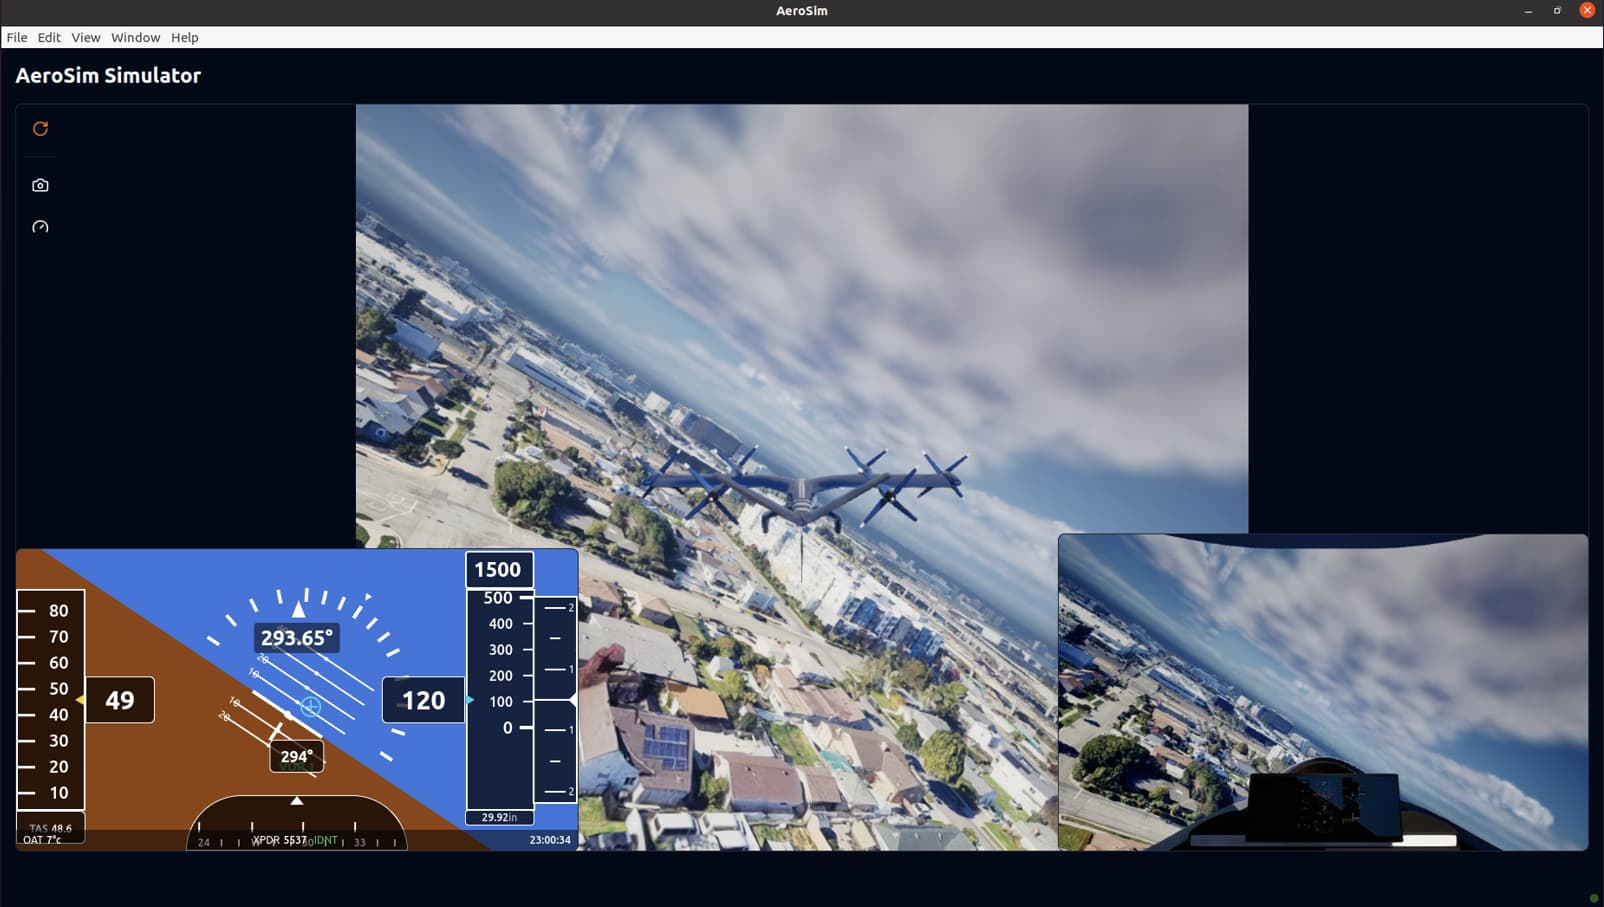
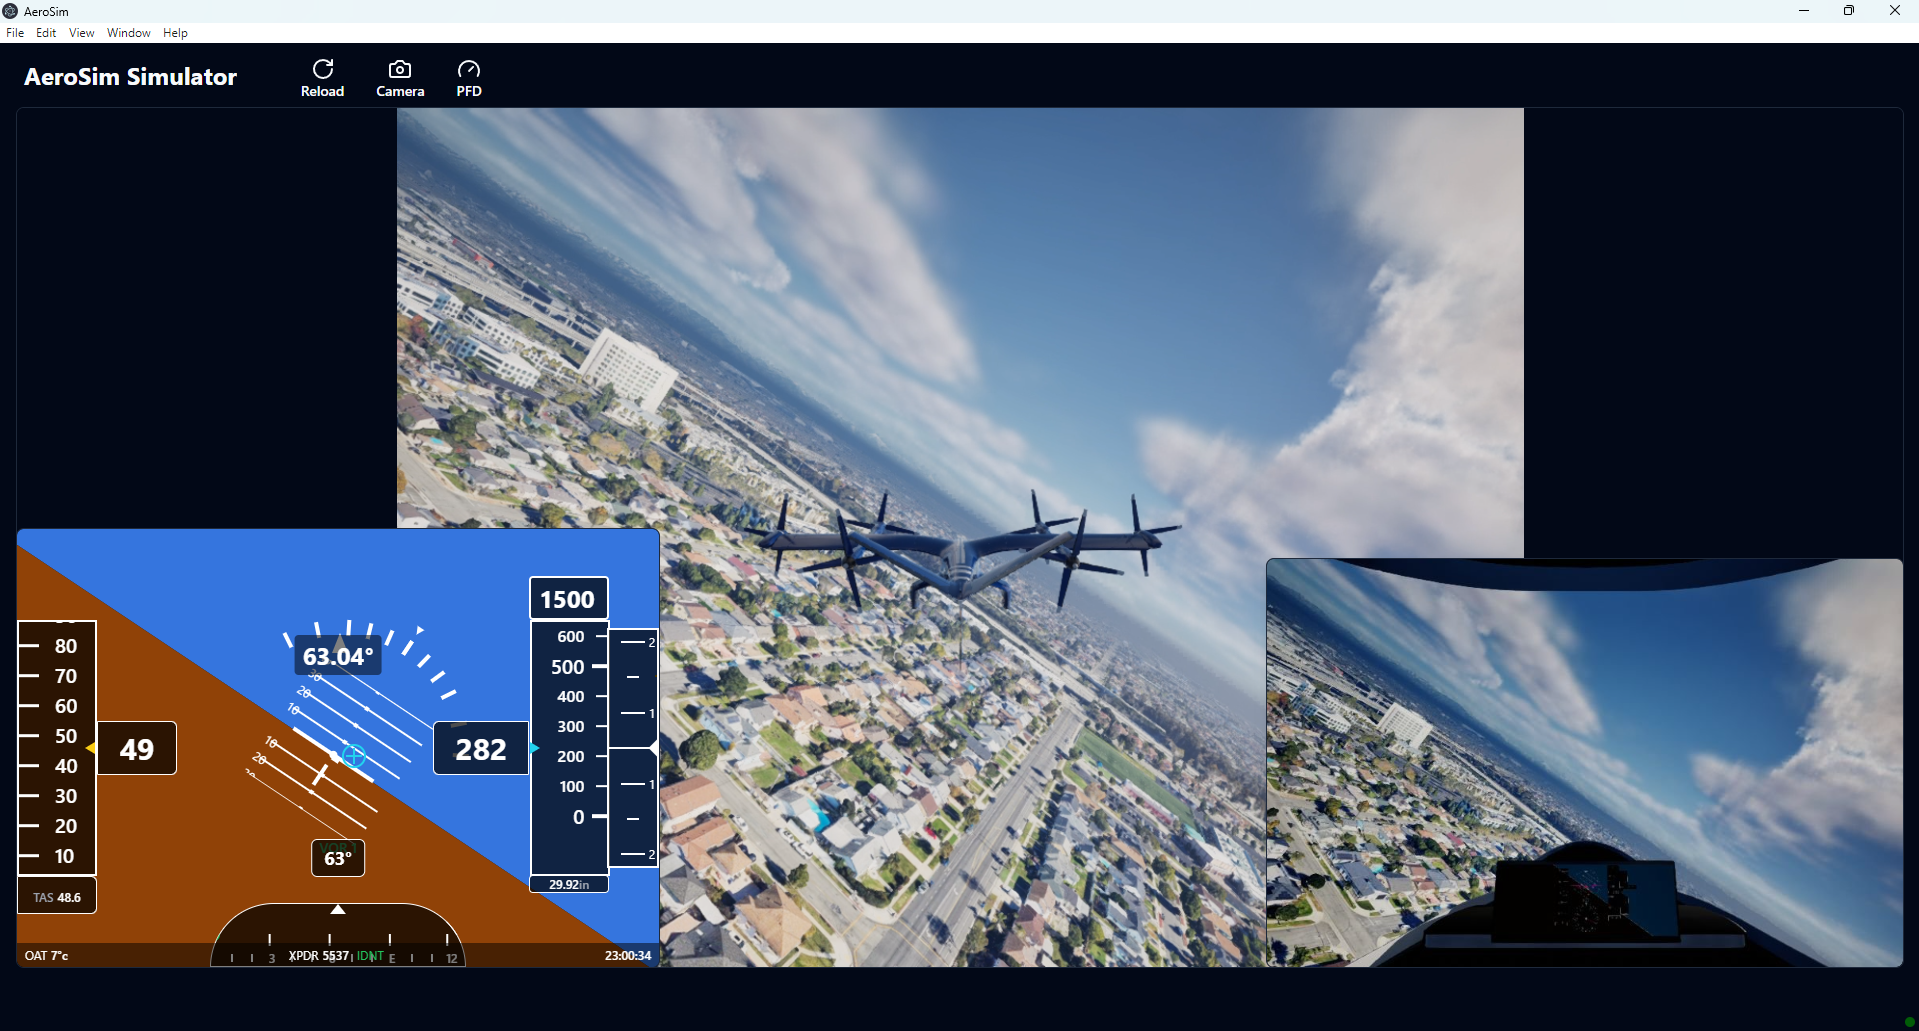
Move App Controls to the top horizontal bar (#6)
* Move NavBar to the top, remove separator as is no longer needed

* Add titles in buttons since there are more space in the top, refactor buttons in NavBar, prettier formatting

* Update readme images with new layout

diff --git a/src/components/ui/button.tsx b/src/components/ui/button.tsx
@@ -1,33 +1,33 @@
-import * as React from 'react';
-import { Slot } from '@radix-ui/react-slot';
-import { cva, type VariantProps } from 'class-variance-authority';
-import { cn } from '@/lib/utils';
+import * as React from "react";
+import { Slot } from "@radix-ui/react-slot";
+import { cva, type VariantProps } from "class-variance-authority";
+import { cn } from "@/lib/utils";
 
 const buttonVariants = cva(
-  'inline-flex items-center justify-center rounded-md text-sm font-medium ring-offset-background transition-colors focus-visible:outline-none focus-visible:ring-2 focus-visible:ring-ring focus-visible:ring-offset-2 disabled:pointer-events-none disabled:opacity-50',
+  "inline-flex items-center justify-center rounded-md text-sm font-medium ring-offset-background transition-colors focus-visible:outline-none focus-visible:ring-2 focus-visible:ring-ring focus-visible:ring-offset-2 disabled:pointer-events-none disabled:opacity-50",
   {
     variants: {
       variant: {
-        default: 'bg-primary text-primary-foreground hover:bg-primary/90',
+        default: "bg-primary text-primary-foreground hover:bg-primary/90",
         destructive:
-          'bg-destructive text-destructive-foreground hover:bg-destructive/90',
+          "bg-destructive text-destructive-foreground hover:bg-destructive/90",
         outline:
-          'border border-input bg-background hover:bg-accent hover:text-accent-foreground',
+          "border border-input bg-background hover:bg-accent hover:text-accent-foreground",
         secondary:
-          'bg-secondary text-secondary-foreground hover:bg-secondary/80',
-        ghost: 'hover:bg-accent hover:text-accent-foreground',
-        link: 'text-primary underline-offset-4 hover:underline',
+          "bg-secondary text-secondary-foreground hover:bg-secondary/80",
+        ghost: "hover:bg-accent hover:text-accent-foreground",
+        link: "text-primary underline-offset-4 hover:underline",
       },
       size: {
-        default: 'h-10 px-4 py-2',
-        sm: 'h-9 rounded-md px-3',
-        lg: 'h-11 rounded-md px-8',
-        icon: 'h-10 w-10',
+        default: "h-10 px-4 py-2",
+        sm: "h-9 rounded-md px-3",
+        lg: "h-11 rounded-md px-8",
+        icon: "h-10 w-10",
       },
     },
     defaultVariants: {
-      variant: 'default',
-      size: 'default',
+      variant: "default",
+      size: "default",
     },
   }
 );
@@ -40,7 +40,7 @@ export interface ButtonProps
 
 const Button = React.forwardRef<HTMLButtonElement, ButtonProps>(
   ({ className, variant, size, asChild = false, ...props }, ref) => {
-    const Comp = asChild ? Slot : 'button';
+    const Comp = asChild ? Slot : "button";
     return (
       <Comp
         className={cn(buttonVariants({ variant, size, className }))}
@@ -50,6 +50,6 @@ const Button = React.forwardRef<HTMLButtonElement, ButtonProps>(
     );
   }
 );
-Button.displayName = 'Button';
+Button.displayName = "Button";
 
 export { Button, buttonVariants };

diff --git a/src/components/nav-bar.tsx b/src/components/nav-bar.tsx
@@ -1,7 +1,6 @@
 import React from "react";
 import { Button } from "@/components/ui/button";
 import { Camera, Gauge, RotateCw } from "lucide-react";
-import { Separator } from "@/components/ui/separator";
 
 interface NavBarProps {
   handleReload: () => void;
@@ -9,42 +8,56 @@ interface NavBarProps {
   handlePFDButton: () => void;
 }
 
+interface ButtonWrapperProps {
+  handleButton: () => void;
+  hoverText: string;
+  text: string;
+  Icon: any;
+}
+
+const ButtonWrapper: React.FC<ButtonWrapperProps> = ({
+  handleButton,
+  hoverText,
+  text,
+  Icon,
+}: ButtonWrapperProps) => {
+  return (
+    <Button variant="ghost" onClick={handleButton} title={hoverText}>
+      <div className="flex flex-col justify-center items-center">
+        <Icon />
+        <h2>{text}</h2>
+      </div>
+    </Button>
+  );
+};
+
 export const NavBar: React.FC<NavBarProps> = ({
   handleReload,
   handleCameraButton,
   handlePFDButton,
 }) => {
   return (
-    <div className="flex flex-col gap-2 p-2">
-      <Button
-        variant="ghost"
-        size="icon"
-        onClick={handleReload}
-        title="Reload Page"
-        className="text-orange-500 hover:text-orange-600 hover:bg-orange-100/10"
-      >
-        <RotateCw className="h-5 w-5" />
-      </Button>
+    <div>
+      <ButtonWrapper
+        handleButton={handleReload}
+        hoverText="Reload Page"
+        text="Reload"
+        Icon={RotateCw}
+      />
 
-      <Separator className="my-1 bg-border/50" />
+      <ButtonWrapper
+        handleButton={handleCameraButton}
+        hoverText="Toggle Camera View"
+        text="Camera"
+        Icon={Camera}
+      />
 
-      <Button
-        variant="ghost"
-        size="icon"
-        onClick={handleCameraButton}
-        title="Toggle Camera View"
-      >
-        <Camera className="h-5 w-5" />
-      </Button>
-
-      <Button
-        variant="ghost"
-        size="icon"
-        onClick={handlePFDButton}
-        title="Toggle PFD"
-      >
-        <Gauge className="h-5 w-5" />
-      </Button>
+      <ButtonWrapper
+        handleButton={handlePFDButton}
+        hoverText="Toggle PFD"
+        text="PFD"
+        Icon={Gauge}
+      />
     </div>
   );
 };

diff --git a/src/pages/sim-viewer.tsx b/src/pages/sim-viewer.tsx
@@ -106,21 +106,21 @@ export const SimViewer: React.FC<Props> = ({
 
   return (
     <div className="h-full w-full p-4">
-      <h1 className="text-2xl font-bold mb-4">AeroSim Simulator</h1>
-      <div className="h-[calc(100vh-8rem)] w-full rounded-lg overflow-hidden border border-border relative">
-        <div className="absolute top-0 left-0 z-10">
-          <NavBar
-            handleReload={handleReload}
-            handleCameraButton={() => {
-              setCameraState({ ...cameraState, show: !cameraState.show });
-              localStorage.setItem("cameraState", JSON.stringify(cameraState));
-            }}
-            handlePFDButton={() =>
-              setPfdState({ ...pfdState, show: !pfdState.show })
-            }
-          />
-        </div>
+      <div className="flex flex-row gap-10">
+        <h1 className="text-2xl font-bold mb-4 mx-2">AeroSim Simulator</h1>
+        <NavBar
+          handleReload={handleReload}
+          handleCameraButton={() => {
+            setCameraState({ ...cameraState, show: !cameraState.show });
+            localStorage.setItem("cameraState", JSON.stringify(cameraState));
+          }}
+          handlePFDButton={() =>
+            setPfdState({ ...pfdState, show: !pfdState.show })
+          }
+        />
+      </div>
 
+      <div className="h-[calc(100vh-8rem)] w-full rounded-lg overflow-hidden border border-border relative">
         <FlightControls />
         {memoizedRenderer}
 

diff --git a/src/components/image-stream.tsx b/src/components/image-stream.tsx
@@ -25,7 +25,7 @@ export const ImageStream: React.FC = () => {
       {imageSrc ? (
         <img src={imageSrc} alt="Camera Stream" />
       ) : (
-        <p>Connecting...</p>
+        <p>Camera connecting...</p>
       )}
     </div>
   );
